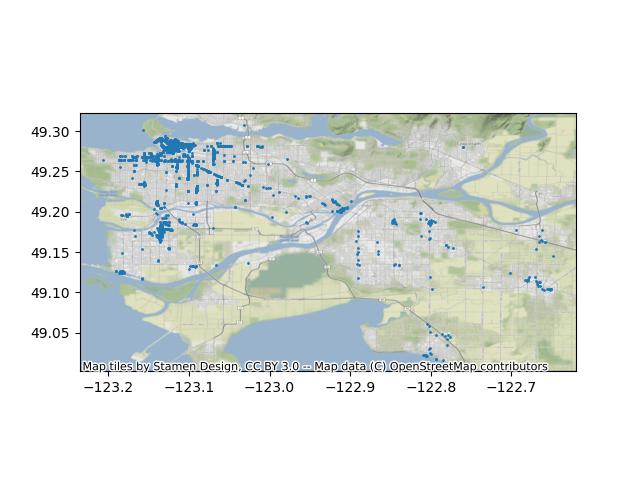
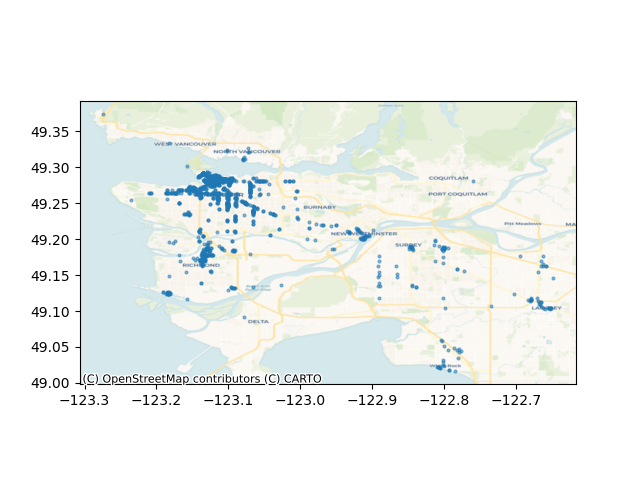
github pages

diff --git a/yelp.py b/yelp.py
@@ -16,12 +16,12 @@ api_key = "y33jHkcCZGE6lzQYWLbpn0BQjwrn889ju7-2GPaYW6vG4R6fTlqFYSw8F-rVlF9ZbCBAe
 headers = {'Authorization': 'Bearer %s' % api_key}
 url='https://api.yelp.com/v3/businesses/search'
 
-
 data = []
 for offset in range(0, 1000, 50):
         params = {
             'limit': 50, 
             'location': 'Vancouver',
+            'term': 'restaurants',
             #'radius': 40000,
             'offset': offset
         }
@@ -39,6 +39,7 @@ for offset in range(0, 1000, 50):
         params = {
             'limit': 50, 
             'location': 'Richmond, BC',
+            'term': 'restaurants',
             #'radius': 40000,
             'offset': offset
         }
@@ -56,6 +57,7 @@ for offset in range(0, 1000, 50):
         params = {
             'limit': 50, 
             'location': 'Surrey, BC',
+            'term': 'restaurants',
             #'radius': 40000,
             'offset': offset
         }
@@ -74,27 +76,90 @@ print(df)
        #'categories', 'rating', 'coordinates', 'transactions', 'price',
        #'location', 'phone', 'display_phone', 'distance']
 
+'''
+#test on Starbucks only
+data = []
+for offset in range(0, 1000, 50):
+        params = {
+            'limit': 50, 
+            'location': 'Vancouver',
+            'term': 'Starbucks',
+            #'radius': 40000,
+            'offset': offset
+        }
+
+        response = requests.get(url, headers=headers, params=params)
+        if response.status_code == 200:
+            data += response.json()['businesses']
+        elif response.status_code == 400:
+            print('400 Bad Request')
+            break
+df_van = pd.DataFrame(data)
+
+data = []
+for offset in range(0, 1000, 50):
+        params = {
+            'limit': 50, 
+            'location': 'Richmond, BC',
+            'term': 'Starbucks',
+            #'radius': 40000,
+            'offset': offset
+        }
+
+        response = requests.get(url, headers=headers, params=params)
+        if response.status_code == 200:
+            data += response.json()['businesses']
+        elif response.status_code == 400:
+            print('400 Bad Request')
+            break
+df_rich = pd.DataFrame(data)
+
+data = []
+for offset in range(0, 1000, 50):
+        params = {
+            'limit': 50, 
+            'location': 'Surrey, BC',
+            'term': 'Starbucks',
+            #'radius': 40000,
+            'offset': offset
+        }
+
+        response = requests.get(url, headers=headers, params=params)
+        if response.status_code == 200:
+            data += response.json()['businesses']
+        elif response.status_code == 400:
+            print('400 Bad Request')
+            break
+df_surr = pd.DataFrame(data)
+df = pd.concat([df_van, df_rich, df_surr])
+df = df[df.name == 'Starbucks']
+'''
+
 #create df
 df2 = pd.concat([df["location"].apply(pd.Series), df["categories"].apply(pd.Series), df["coordinates"].apply(pd.Series), df[["name", "price", "rating", "review_count", "distance", "is_closed"]]], axis = 1)
-print(df2)
+#print(df2)
 df3 = pd.concat([df2[0].apply(pd.Series), df2[["name", "latitude", "longitude", "zip_code", "price", "rating", "review_count", "distance", "is_closed"]]], axis = 1).dropna()
-print(df3)
-print(df3['title'].nunique())
+#print(df3)
+#print(df3['title'].nunique())
 df3["leftzip"] = df3['zip_code'].str[:3]
 df3["price_updated"]= df3["price"].replace('$', 1).replace('$$', 2).replace('$$$', 3).replace('$$$$', 4)
 
 df3 = pd.merge(df3, fsa, left_on='leftzip', right_on='Country', how='left')
-print(df3.describe())
+#print(df3.describe())
 #percentile 
 #percentile = (df3.quantile([.33, .67], axis = 0))
 
 df3["level"] = np.where(df3["Avg Income"] < 45000, 1, np.where(df3["Avg Income"] > 65000, 3, 2))
-df3 = df3[df3.is_closed == False]
-df3 = df3[df3.review_count >= 50]
+print(df3)
+#df3 = df3[df3.is_closed == False]
+print(df3)
+#df3 = df3[df3.review_count >= 50]
+print(df3)
 df3["count"] = 1 #helper column
 print(df3[["name", "leftzip", "price_updated", "rating", "title", "Electoral District", "Avg Income", "level", "count", "review_count", "distance", "is_closed"]])
 #print(df3[["name", "leftzip", "price_updated", "rating", "title", "Electoral District", "Avg Income"]].loc[df3["rating"] == 2.5])
 #print(df3['Code'].isnull().values.any())
+
 
 #createmap
 fig, ax = plt.subplots()
@@ -119,16 +184,12 @@ ax = sns.countplot(x="rating", data=df3)
 plt.title("restaurant count per rating")
 plt.show()
 
-#ax = sns.countplot(x="price_updated", data=df3, order=["1", "2", "3", "4"])
-#plt.title("restaurant count per price range")
-#plt.show()
-
-#ax = sns.countplot(x="title", data=df3)
-#plt.xticks(
-    #rotation=45, 
-    #horizontalalignment='right')
-#plt.title("restaurant count per category")
-#plt.show()
+ax = sns.countplot(x="title", data=df3)
+plt.xticks(
+    rotation=45, 
+    horizontalalignment='right')
+plt.title("restaurant count per category")
+plt.show()
 
 ax = sns.violinplot(x="rating", y="price_updated", data=df3)
 plt.xlabel('avg rating')
@@ -149,9 +210,9 @@ plt.ylabel('avg income')
 plt.title("avg income per rating")
 plt.show()
 
-#ax = df3.pivot_table(values="count", index="price_updated", columns="level", aggfunc=np.sum).plot(kind="bar")
-#plt.title("restaurant distribution by price")
-#plt.show()
+ax = df3.pivot_table(values="count", index="price_updated", columns="level", aggfunc=np.sum).plot(kind="bar")
+plt.title("restaurant distribution by price")
+plt.show()
 
 
 

diff --git a/index.md b/index.md
@@ -1,20 +1,149 @@
 # Vancouver Yelp Restaurants Rating Analysis
 
-##### October 2020
+
 
 
 ## Are there biases in Yelp ratings for restaurants in Vancouver with different socioeconomic statuses?
 
-**Vancouver Restaurants for the Analysis**
+##### Vancouver Restaurants for the Analysis
 
 ![map](Figure_1.png)
 
 This map plots the locations of the restaurants used in this analysis. I analyzed 3000 restaurants in the Metro Vancouver area across 132 categories.
 
-**Distribution of Vancouver Restaurants by Rating on Yelp**
+##### Distribution of Vancouver Restaurants by Rating on Yelp
 
 ![Rating Distribution](Figure_4.png)
 
-This graph plots the distribution of restaurants on a 0.5 scale. The x-axis is the restaurant rating, with 5 being the highest. The y-axis is the numbers of restaurants for that rating. This graph suggestions that the ratings are normally distributed, with a rating of 4 being the most common.
+This graph plots the distribution of restaurants on a 0.5 scale. The x-axis is the restaurant rating, with 5 being the highest. The y-axis is the numbers of restaurants for that rating. This graph suggests that the ratings are normally distributed, with a rating of 4 being the most common.
 
-Distribution of Vancouver Restaurants by Household I
+##### Distribution of Vancouver Restaurants by Average Income
+
+![Income vs Rating](Figure_8.png)
+
+The violin plot shows the distribution of average income at specfiic ratings. It looks like the median point of average income trends lower (around $40k) for low ratings (2.5, 3.0, and 3.5), while it trends relatively higher (around $80k) for high ratings (4.0 and 4.5).
+
+
+
+## Are there biases in Yelp ratings for restaurants in Vancouver with different socioeconomic statuses?
+
+![Restaurant by District](Figure_3.png)
+
+The data on restaurants was divided by socioeconomic status, based on average income. Average income is defined as total income divided by total respondents in the corresponding federal electoral district. This breakdown was conducted relative to Vancouver income standards, with the cut offs listed below.
+
+1. Low (=1) < $45,000
+2. Medium (=2) >= $45,000 and <= $65,000
+3. High (=3) >$65,000
+
+There are 42 electoral districts in BC. The restaurants in our dataset are concentrated in 11. In the image above, the majority of restaurants are located downtown (Vancouver Centre). Other electoral districts include Vancouver East, Vancouver Granville, and Vancouver Kingsway.
+
+![Price](Figure_9.png)
+
+This graph plots the distribution of restaurants by review, grouped by socioeconomic level. The x-axis shows the average price of the restaurant, with 1 indicating a cheap restaurant ($) and 4 indicating an expensive restaurant ($$$$). 
+
+This shows that the majority of restaurants with a 1 rating are from a low socioeconomic neighbourhood. This price level also has the fewest number of restaurants. 
+
+The majority of restaurants are medium priced (have a rating of 2). 
+
+Expensive price levels (3 and 4) are dominated by restaurants in high socioeconomic neighbourhoods. 
+
+
+## Features
+
+![Correlation](Figure_2.png)
+
+To investigate restaurants in various socioeconomic neighbourhoods, I trained a regression model using several features. To do this, I looked at the correlation between variables to see which ones had a strong correlation with rating. Our dataset has a few factors relating to restaurant quality. 
+
+None of them have a strong correlation with rating individually. This makes sense because it is inherently the combination of variables the dictates a restaurant's quality (a low price does not necessarily suggest a low rating). 
+
+- **Rating (integer)**: the restaurant's average rating, as determined by Yelp users. Possible scores range from from 1 to 5
+
+- **Review Count (integer)**: the restaurant's total reviews given by Yelp users
+
+- **Price (integer)**: the restaurant's average price, as determined by Yelp users. Possible scored range from $ to $$$$
+
+- **distance (integer)**: the restaurant's distance in meters from the city centre, around Olympic Village. Note that this was not used as a training variable as there is a high variation in distances between low and high socioeconomic areas.
+
+
+
+## Classes
+
+My SVM model predicts for two classes, 0 and 1.
+
+- 0 is a "bad" restaurant, meaning a rating <4
+- 1 is a "good" restaurant, meaning a rating >= 4
+
+This was done arbitrarily, but generally most restaurants are deemed "good" if they have a rating of 4 or higher.
+
+
+
+## SVM Regression Model
+
+
+To test for a bias, I trained two regression models:
+- restaurants in a high socioeconomic neighbourhood
+- restaurants in a low socioeconomic neighbourhood
+
+For prediction, I put the restaurants in the opposing socioeconomic neighbourhood
+- low socioeconomic restaurants tested in high socioeconomic model
+- high socioeconomic restaurants tested in low socioeconomic model
+
+Next, I built a Support Vector Graph for each model. By looking at the results, I can evaluate how a restaurant would perform in a different socioeconoic environment.
+
+
+##### High Socioeconomic Restaurants in a Low Socioeconomic model
+
+![Low model](Figure_10.png)
+
+This model is trained on features from restaurants in a low socioeconomic neighbourhood. When testing it on high socioeconomic restaurants, it classifies half of them as "bad" restaurants. Generally, the model defines this as low review count and high price.
+
+| n=613       | Predicted: 0 | Predicted: 1 |
+| :---------- | :----------: | -----------: |
+|  Actual: 0  | 143          | 51           |
+|  Actual: 1  | 274          | 145       \| |
+
+Approximately 68% had negative results, and 32% had positive results.
+
+
+##### Low Socioeconomic Restaurants in a High Socioeconomic model
+
+![High model](Figure_11.png)
+
+This model is trained on features from restaurants in a high socioeconomic neighbourhood. When testing it on low socioeconomic restaurants, it classifies every single one of the restaurants as "good".
+
+| n=       | Predicted: 0 | Predicted: 1 |
+| :---------- | :----------: | -----------: |
+|  Actual: 0  | 0            | 176          |
+|  Actual: 1  | 0            | 167       \| |
+
+Results were positive 100% of the time.
+
+##### Controlling for Restaurant Type
+
+To further investigate the bias, I ran the same models on all Starbucks in Metro Vancouver to hold the restaurant type constant. There are 271 Starbucks in the dataset. Starbucks was chosen because of the high sample size. For this model, I categorized a "good" Starbucks as one with a rating >= 3.5, as Starbucks average a 3.0 or 3.5 in rating.
+
+![Starbucks](Figure_13.png)
+
+Low Socioeconomic model
+| n=109       | Predicted: 0 | Predicted: 1 |
+| :---------- | :----------: | -----------: |
+|  Actual: 0  | 0            | 20           |
+|  Actual: 1  | 0            | 89        \| |
+
+High Socioeconomic model
+| n=63       | Predicted: 0 | Predicted: 1 |
+| :---------- | :----------: | -----------: |
+|  Actual: 0  | 0            | 12           |
+|  Actual: 1  | 0            | 51        \| |
+
+Both models predicted a positive result 100% of the time. In the high socioeconomic model, you can visually observe that several Starbucks locations' ratings are being overestimated.
+
+
+## Conclusion
+
+From the regression model training, the high socioeconomic model tends to underestimate the actual data, while the low socioeconomic model tends to overestimate the actual data. This happens 45% of the time for the former, and 51% of the time for the latter. Although this analysis is inconclusive, it implies that there is a bias in restaurant rating based on socioeconomic status in Vancouver. 
+
+This analysis also has many limitations to it:
+- Electoral districts are large, and many not account for region-specific nuances in socioeconomic status. Although this analysis can be improved using census tracts, there is no available data matching postal code Forward Sortation Area (FSA) boundaries to census areas. Unfortunately, there is limited regional specific data available on StatsCanada. Other external data I can consider are crime rates or average house rental price.
+- Yelp's API has limited useful parameters in its endpoint, so only two features were considered in the regression. In the future, I would want to consider additional metrics, such as Health Inspection records or years of operation.
+- There are many qualitative factors that can also influence a restaurant quality, including food quality, location, customer service, and ambience. These factors have not been considered in the analysis
